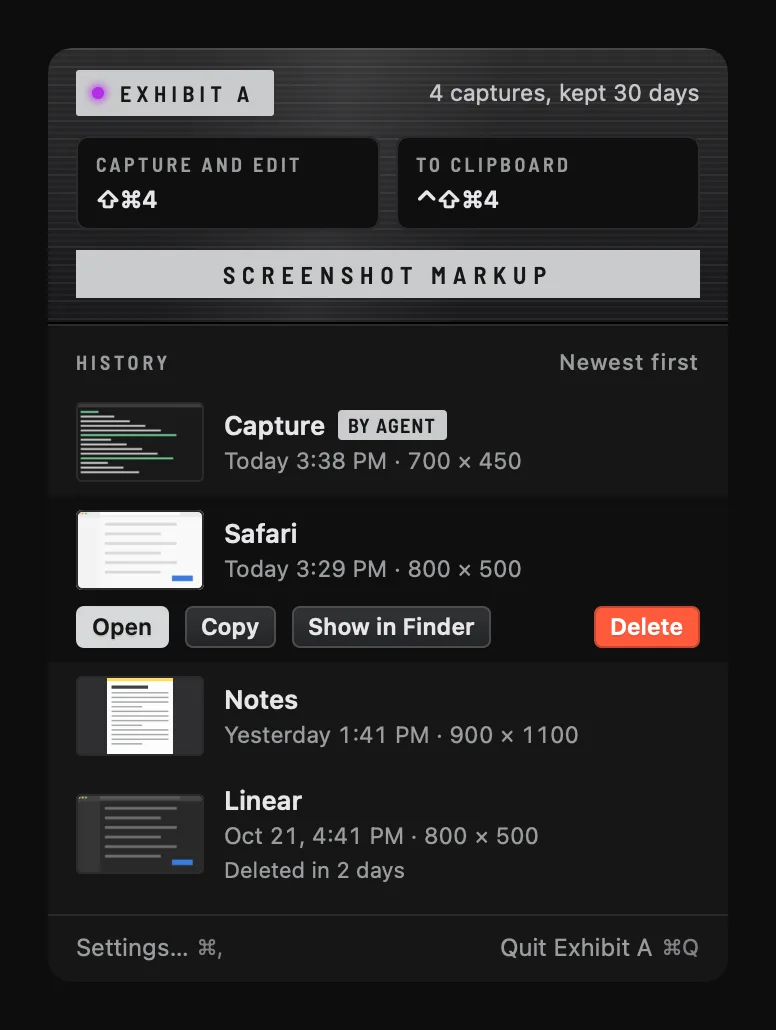
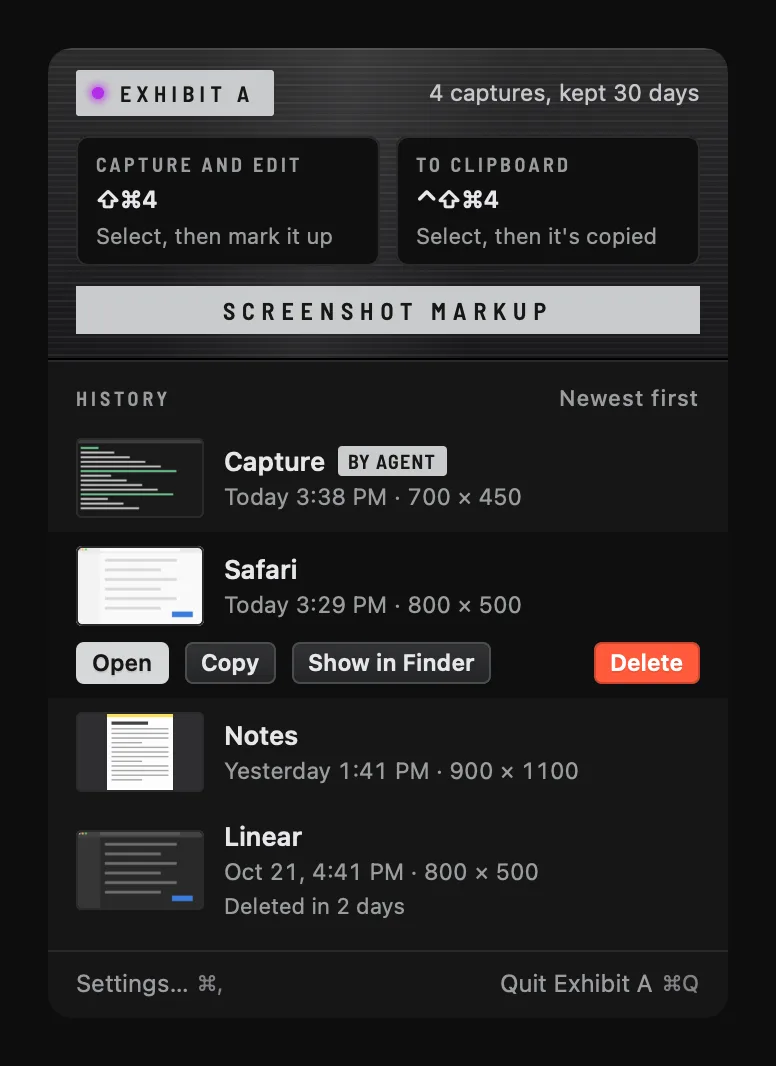
Put the maker note on the homepage (#86)
* Put the maker note on the homepage

Corey approved the "Why it exists" paragraph on 2026-11-19.

Refs #51

* Show the 0.1.1 toolbar and panel in the site's screenshots

Refs #51

---------

diff --git a/site/src/pages/index.html b/site/src/pages/index.html
@@ -156,6 +156,19 @@ exhibit mcp</code></pre>
   </div>
 </section>
 
+<section class="bx-section" id="why">
+  <div class="bx-wrap">
+    <div class="bx-maker">
+      <img src="/corey-152.webp" srcset="/corey-76.webp 1x, /corey-152.webp 2x, /corey-228.webp 3x" alt="Corey Haines" width="76" height="76">
+      <div>
+        <span class="bx-strip">Why it exists</span>
+        <p>I share marked-up screenshots all day, and so do the agents working on my Mac. Every time it was the same routine: take the shot, open Markup, hunt for the arrow, and still no quick way to hide an email. When an agent wanted to show me something, it couldn’t point at all. So I built the app I wanted: one key per mark, a sentence when that’s faster, and a command an agent can run. And it’s free.</p>
+        <cite>Corey Haines, maker of Exhibit A and <a href="#apps">more free Mac apps</a></cite>
+      </div>
+    </div>
+  </div>
+</section>
+
 <section class="bx-section" id="faq" aria-labelledby="faq-title">
   <div class="bx-wrap">
     <span class="bx-eyebrow">Questions</span>

diff --git a/docs/release/site-launch.md b/docs/release/site-launch.md
@@ -5,7 +5,7 @@ The site in `site/` is built and checked locally (`make lint`) but not deployed.
 ## 1. Before launch day
 
 - [ ] If `docs/samples/app/` is re-rendered again before launch, re-export the screenshots in `site/src/assets/shots/` (they already show the final `#b42ee8` light): `cwebp -q 82 -resize 1200 0 docs/samples/app/editor-applied-light.png -o site/src/assets/shots/editor-applied-light.webp`, and the same for `editor-applied-dark`, `editor-marked-light`, `panel-history-*` (no resize), `docs/samples/all-marks.png` and `docs/samples/cli-demo.png` (`-resize 1140 0`). Look at each one.
-- [ ] Corey approves the "Why it exists" paragraph (a draft in his voice, like the other drafts in `mac-app-kit/site-kit/sections/maker-copy.md`). It is off the homepage for launch; the section is kept in `docs/release/maker-note-draft.html`, to go back above the FAQ once approved.
+- [x] Corey approved the "Why it exists" paragraph on 2026-11-19; it is on the homepage above the FAQ.
 - [ ] Recheck every claim against what was verified live (`docs/product/unit*-live-checklist.md`). The copy states only what the code does; it gives no timings and names no tested clients on purpose.
 
 ## 2. Vercel project (team `coreys-apps`)
